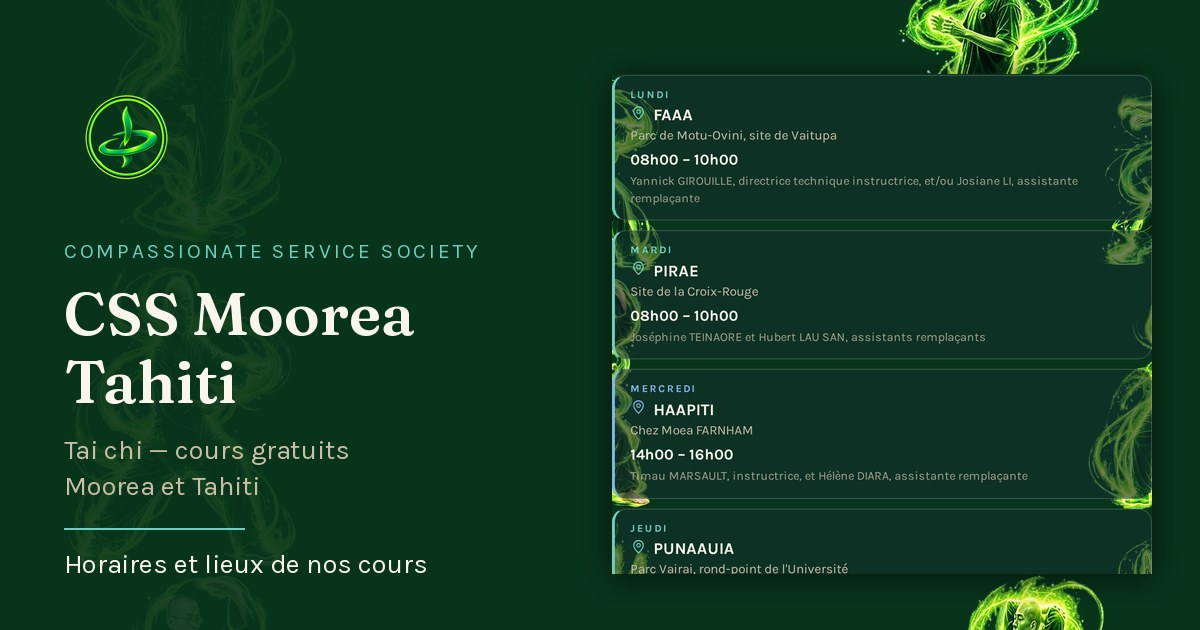
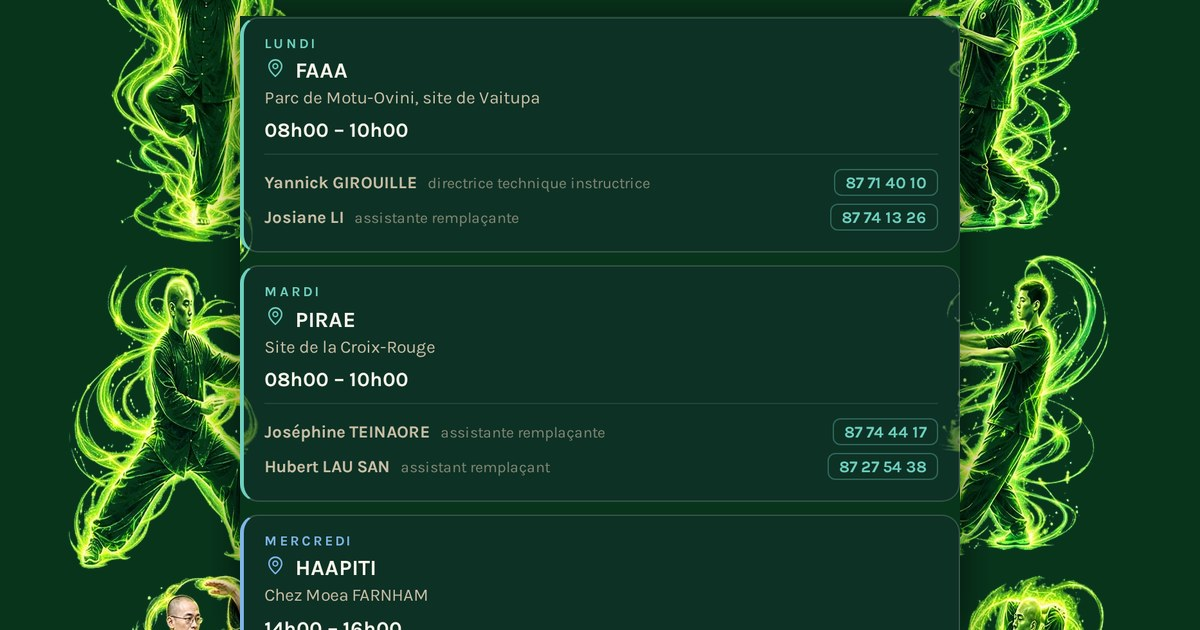
Add files via upload

diff --git a/liens.js b/liens.js
@@ -22,7 +22,7 @@
    valeur doit exister. À mettre à jour à CHAQUE livraison, en même temps
    que le nom du zip, sinon la page ment sur ce qu'elle est.
    --------------------------------------------------------------------- */
-const VERSION = "00.21.00";
+const VERSION = "00.24.00";
 const VERSION_DATE = "16 août 2026";
 
 
@@ -68,10 +68,15 @@ const DICO = {
     demande_texte: "L'entrée dans les deux groupes est validée par un administrateur. Écrivez-nous pour en faire la demande.",
     demande_mot_lien: "administrateur",
 
-    // ADRESSE À VÉRIFIER : construite depuis le numéro 89 74 07 82, préfixé
-    // de l'indicatif 689 de la Polynésie française. wa.me ouvre WhatsApp sur
-    // la conversation directe. Si le numéro n'est pas sur WhatsApp, ou si
-    // c'est une autre messagerie qui était visée, changer cette seule ligne.
+    // Lien du mot « administrateur ».
+    // ADRESSE CONSERVÉE MALGRÉ UN DÉFAUT CONNU, sur consigne : WhatsApp
+    // affiche « villa Serbeloni » au lieu du nom de Teva MEYER. Le NUMÉRO
+    // est bon, c'est le nom affiché qui est faux. Reliquat probable d'un
+    // profil WhatsApp Business ou d'une fiche d'établissement Google
+    // rattachée à ce numéro : WhatsApp montre alors le nom commercial
+    // vérifié, sans tenir compte des corrections faites côté Google.
+    // Cela se corrige dans WhatsApp Business, pas ici. Ne pas remplacer
+    // ce lien sans instruction.
     demande_lien_admin: "https://wa.me/68989740782",
     demande_messenger: "Pour le groupe Messenger : indiquez votre pseudo Messenger et la photo de votre profil, afin que nous puissions vous identifier.",
     demande_whatsapp: "Pour le groupe CSS ADHÉRENTS OFFICIEL POLYNÉSIE : indiquez votre numéro de téléphone.",
@@ -89,6 +94,11 @@ const DICO = {
     entete_sous_titre_plannings: "Nos cours de tai chi, du lundi au samedi",
 
     plannings_gratuit: "Nos cours sont gratuits",
+
+    // Message le plus important de la page apres les horaires : une seule
+    // adhesion ouvre les six cours. Il est place JUSTE SOUS le bandeau de
+    // gratuite, avant les fiches, parce qu'il change la facon de les lire.
+    plannings_acces: "Une adhésion CSS est valable pour pratiquer indifféremment sur TOUS les sites. Elle donne accès à TOUS les cours, autant de fois par semaine que vous le souhaitez.",
 
     avert_titre: "À savoir avant de venir",
     avert_arue: "Le site de ARUE est momentanément suspendu.",
@@ -462,36 +472,62 @@ const JEUX = {
    --------------------------------------------------------------------- */
 const PLANNINGS = [
 
+    // Les numéros viennent de la publication Facebook du 28 mai 2026.
+    // Ceux qui n'y figuraient pas sont laissés vides : mieux vaut pas de
+    // numéro qu'un numéro inventé. Le champ tel accepte la chaîne vide,
+    // le nom s'affiche alors sans lien d'appel.
+    // Format d'appel : indicatif 689, puis les huit chiffres sans espace.
+
     { jour: "Lundi", ile: "tahiti", commune: "FAAA",
       lieu: "Parc de Motu-Ovini, site de Vaitupa",
       horaire: "08h00 – 10h00",
-      gens: "Yannick GIROUILLE, directrice technique instructrice, et/ou Josiane LI, assistante remplaçante" },
+      gens: [
+        { nom: "Yannick GIROUILLE", role: "directrice technique instructrice", tel: "87 71 40 10" },
+        { nom: "Josiane LI",        role: "assistante remplaçante",            tel: "87 74 13 26" }
+      ] },
 
     { jour: "Mardi", ile: "tahiti", commune: "PIRAE",
       lieu: "Site de la Croix-Rouge",
       horaire: "08h00 – 10h00",
-      gens: "Joséphine TEINAORE et Hubert LAU SAN, assistants remplaçants" },
+      gens: [
+        { nom: "Joséphine TEINAORE", role: "assistante remplaçante", tel: "87 74 44 17" },
+        { nom: "Hubert LAU SAN",     role: "assistant remplaçant",   tel: "87 27 54 38" }
+      ] },
 
     { jour: "Mercredi", ile: "moorea", commune: "HAAPITI",
       lieu: "Chez Moea FARNHAM",
       horaire: "14h00 – 16h00",
-      gens: "Timau MARSAULT, instructrice, et Hélène DIARA, assistante remplaçante" },
+      gens: [
+        { nom: "Timau MARSAULT", role: "instructrice",           tel: "87 75 18 29" },
+        { nom: "Hélène DIARA",   role: "assistante remplaçante", tel: "" }
+      ] },
 
     { jour: "Jeudi", ile: "tahiti", commune: "PUNAAUIA",
       lieu: "Parc Vairai, rond-point de l'Université",
       horaire: "08h00 – 10h00",
-      gens: "Yannick GIROUILLE, directrice technique instructrice, et/ou Josiane LI, assistante remplaçante" },
+      gens: [
+        { nom: "Yannick GIROUILLE", role: "directrice technique instructrice", tel: "87 71 40 10" },
+        { nom: "Josiane LI",        role: "assistante remplaçante",            tel: "87 74 13 26" }
+      ] },
 
     { jour: "Vendredi", ile: "tahiti", commune: "PIRAE",
       lieu: "Site de la Mairie",
       horaire: "08h30 – 10h30",
-      gens: "Joséphine TEINAORE et Hubert LAU SAN, assistants remplaçants" },
+      gens: [
+        { nom: "Joséphine TEINAORE", role: "assistante remplaçante", tel: "87 74 44 17" },
+        { nom: "Hubert LAU SAN",     role: "assistant remplaçant",   tel: "87 27 54 38" }
+      ] },
 
     { jour: "Samedi", ile: "moorea", commune: "PAOPAO",
       lieu: "Centre culturel TE PU ATITI'A",
       horaire: "09h00 – 11h00",
-      gens: "Anick LAU et Nadine GUAIS, instructrices, et Anne-Dominique MEYER, assistante remplaçante" }
+      gens: [
+        { nom: "Anick LAU",              role: "instructrice",           tel: "87 79 03 39" },
+        { nom: "Nadine GUAIS",           role: "instructrice",           tel: "87 74 88 67" },
+        { nom: "Anne-Dominique MEYER",   role: "assistante remplaçante", tel: "" }
+      ] }
 ];
+
 
 
 /* ---------------------------------------------------------------------
@@ -645,11 +681,43 @@ function poserPlannings(idConteneur) {
               + c.commune + "</p>"
               + '<p class="fiche-lieu">' + c.lieu + "</p>"
               + '<p class="fiche-horaire">' + c.horaire + "</p>"
-              + '<p class="fiche-gens">' + c.gens + "</p>"
+              + construireGens(c.gens)
               + "</article>";
     });
 
     boite.innerHTML = html;
+}
+
+
+/* ---------------------------------------------------------------------
+   construireGens — la liste des encadrants d'un cours.
+   Chaque nom est suivi de son rôle et, quand il est connu, de son numéro
+   rendu appelable d'un doigt.
+   POURQUOI le numéro est cliquable : c'est ce qu'on cherche quand on
+   hésite à se déplacer un jour de pluie, et recopier huit chiffres à la
+   main est le meilleur moyen de renoncer à appeler.
+   --------------------------------------------------------------------- */
+function construireGens(gens) {
+    if (!gens || !gens.length) return "";
+
+    let html = '<ul class="fiche-gens">';
+
+    gens.forEach(function (g) {
+        html += "<li>"
+              + '<span class="gens-nom">' + g.nom + "</span>"
+              + '<span class="gens-role">' + g.role + "</span>";
+
+        if (g.tel) {
+            // Indicatif 689 et suppression des espaces : c'est la seule
+            // forme que les téléphones composent sans erreur.
+            const brut = "+689" + g.tel.replace(/\s/g, "");
+            html += '<a class="gens-tel" href="tel:' + brut + '">' + g.tel + "</a>";
+        }
+
+        html += "</li>";
+    });
+
+    return html + "</ul>";
 }
 
 

diff --git a/styles.css b/styles.css
@@ -468,6 +468,26 @@ body {
 }
 
 
+/* Message d'accès, page plannings.
+   Encadré plein et non discret : c'est l'argument que les adhérents
+   ignorent le plus souvent, il doit se lire avant les horaires et non
+   après. Le turquoise le rattache aux fiches Tahiti sans les concurrencer,
+   la barre de gauche lui donne le poids d'une affirmation. */
+.acces-tous {
+  width: 100%;
+  max-width: var(--colonne);
+  margin-bottom: 4px;
+  padding: 13px 16px;
+  border: 1px solid rgba(110, 207, 190, 0.35);
+  border-left: 3px solid var(--lagon-clair);
+  border-radius: var(--rayon);
+  background: rgba(110, 207, 190, 0.10);
+  font-size: 0.9rem;
+  line-height: 1.5;
+  color: var(--tiare);
+}
+
+
 /* ---------------------------------------------------------------------
    FICHES DE COURS, page plannings.
    Même boîte que les boutons, sans le comportement : pas de survol, pas
@@ -535,11 +555,54 @@ body {
   margin-top: 7px;
 }
 
+/* Encadrants du cours. Une ligne par personne : nom, rôle, numéro.
+   Liste et non paragraphe : on cherche UNE personne dans la liste, pas à
+   lire une phrase. Le numéro est aligné à droite, c'est la colonne que
+   l'oeil parcourt. */
 .fiche-gens {
-  font-size: 0.78rem;
-  line-height: 1.4;
-  color: rgba(201, 191, 166, 0.8);
-  margin-top: 5px;
+  list-style: none;
+  margin-top: 9px;
+  padding-top: 8px;
+  border-top: 1px solid rgba(250, 246, 236, 0.10);
+}
+
+.fiche-gens li {
+  display: flex;
+  flex-wrap: wrap;
+  align-items: baseline;
+  gap: 4px 8px;
+  padding: 3px 0;
+}
+
+.gens-nom {
+  font-size: 0.83rem;
+  font-weight: 700;
+  color: var(--sable);
+}
+
+.gens-role {
+  flex: 1 1 auto;
+  font-size: 0.74rem;
+  color: rgba(201, 191, 166, 0.62);
+}
+
+/* Le numéro touche la même cible tactile que les boutons : il est
+   volontairement large et espacé, pour être atteint au pouce. */
+.gens-tel {
+  flex: 0 0 auto;
+  padding: 2px 8px;
+  border: 1px solid rgba(110, 207, 190, 0.35);
+  border-radius: 6px;
+  font-size: 0.79rem;
+  font-weight: 700;
+  color: var(--lagon-clair);
+  text-decoration: none;
+  white-space: nowrap;
+}
+
+.fiche--moorea .gens-tel {
+  border-color: rgba(127, 182, 232, 0.35);
+  color: var(--ciel);
 }
 
 /* Numéro de téléphone appelable. */

diff --git a/plannings.html b/plannings.html
@@ -52,6 +52,11 @@
   <p class="gratuit" data-dico="plannings_gratuit"></p>
 </header>
 
+<!-- Pavé 2 bis : ce que l'adhésion ouvre réellement. Placé AVANT les
+     fiches : savoir qu'on peut venir à tous les cours change la façon de
+     lire le tableau qui suit. -->
+<p class="acces-tous" data-dico="plannings_acces"></p>
+
 <!-- Pavé 3 : les six fiches de cours, posées par liens.js. -->
 <main class="liens" id="liens"></main>
 
